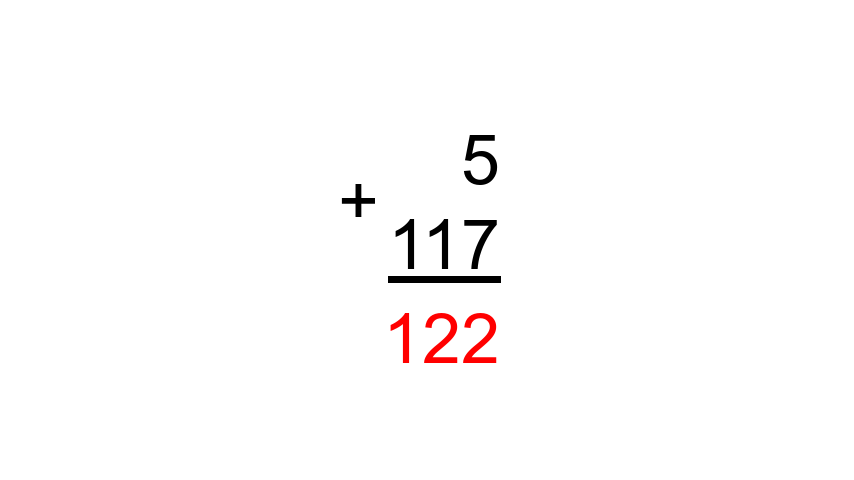
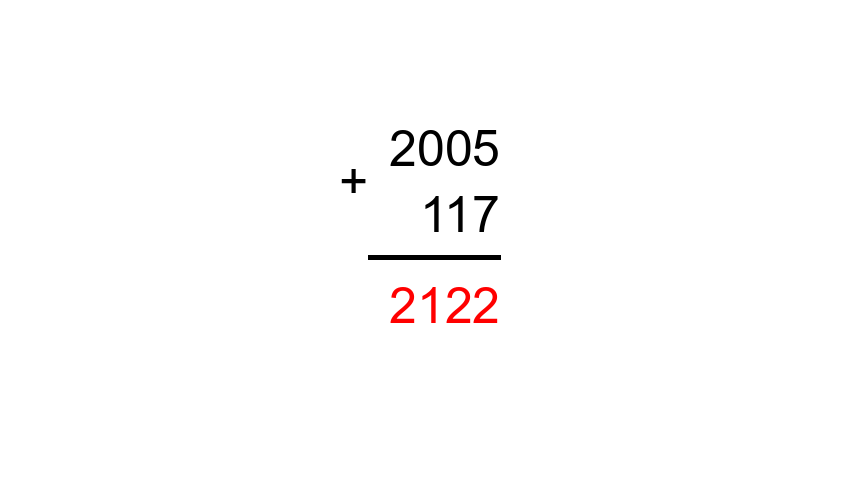
Old Exo compatibility

Changed region(s): [[0.4262, 0.25, 0.6089, 0.7812], [0.3958, 0.3438, 0.4567, 0.4688]]

diff --git a/load_exo.py b/load_exo.py
@@ -5,15 +5,67 @@ from datetime import date
 import os
 import re
 import sys
+import copy
 
 
 class ExoSchedule:
     def __init__(self):
-        self.exo_dir = r"C:\Users\NJAKA\Desktop\exo_itk"
+        # self.exo_dir = r"C:\Users\NJAKA\Desktop\exo_itk"
+        self.exo_dir = r"D:\Njaka_Project\Njaka_Dev_Itk\bin\Mianatra2\images"
         self.exo_schedule = "exo_schedule.json"
         self.all_exo = {}
         self.load_all_exo()
         self.update_all_exo()
+
+    @staticmethod
+    def reformat_answer(text):
+        result = ""
+        n = len(text)
+        for i in range(n):
+            t = text[i]
+            tmp = ""
+            if i != n - 1:
+                tmp = text[i + 1]
+            if tmp != "#" and t != "#":
+                result += f"{t}".lower()
+            elif t != "#":
+                result += f"{t}".upper()
+        return result
+
+    def organize_files(self, folder_path):
+        # print("---->>organize_files")
+        files = os.listdir(folder_path)
+        result = []
+        template = {"image1": "", "image2": "", "mp3": [], "answer": re.compile(""), "text": ""}
+
+        i = 1
+        get_next = True
+        while get_next:
+            get_next = False
+            for file in files:
+                match_a = re.search(rf"(A{i})(-.*)*\.(png|jpg)$", file)
+                if match_a is not None:
+                    get_next = True
+                    result.append(copy.deepcopy(template))
+                    result[-1]["image1"] = os.path.join(folder_path, file)
+                    if match_a.group(2) is not None:
+                        result[-1]["text"] = match_a.group(2)
+                    break
+            if get_next:
+                for file in files:
+                    match_b = re.search(rf"(B{i})-(.*)\.(png|jpg)$", file)
+                    if match_b is not None:
+                        result[-1]["image2"] = os.path.join(folder_path, file)
+                        tmp = rf"{self.reformat_answer(match_b.group(2))}"
+                        result[-1]["answer"] = re.compile(re.escape(tmp))
+                        break
+                for file in files:
+                    match_c = re.search(rf"(A{i})(-.*)*\.mp3$", file)
+                    if match_c is not None:
+                        result[-1]["mp3"].append(os.path.join(folder_path, file))
+                        break
+            i += 1
+        return result
 
     @staticmethod
     def get_today_weekday():
@@ -31,7 +83,8 @@ class ExoSchedule:
             for schedule in data['Itokiana']:
                 # print("-->",schedule["exo_number"])
                 if today_weekday in schedule['exo_weekdays']:
-                    random_values = random.sample(schedule['exo_group'], schedule['exo_number'])
+                    n = min(len(schedule['exo_group']),schedule['exo_number'])
+                    random_values = random.sample(schedule['exo_group'], n)
                     for exo in random_values:
                         self.all_exo[exo] = {}
 
@@ -72,22 +125,21 @@ class ExoSchedule:
                                 exo_tmp = {
                                     "image1": image1,
                                     "image2": image2,
-                                    # "image1": "images/A1.png",
-                                    # "image2": "images/A4.png",
-                                    "mp3": [r"D:\Njaka_Project\Njaka_Dev_Itk\bin\Mianatra2\images\vidin_ny_voankazo_b\A1.mp3"],
+                                    "mp3": [],
                                     "answer": answer,
                                     "text": "andrana"
                                 }
                                 self.all_exo[exo]["exo"].append(exo_tmp)
                         else:
-                            for _ in range(int(data["max"])):
-                                exo_tmp = {
-                                    "image1": "images/A1.png",
-                                    "image2": "images/A4.png",
-                                    "mp3": [r"D:\Njaka_Project\Njaka_Dev_Itk\bin\Mianatra2\images\vidin_ny_voankazo_b\A1.mp3"],
-                                    "answer": re.compile("6"),
-                                    "text": "andrana"
-                                }
+                            for exo_tmp in self.organize_files(exo_path):
+                                # for _ in range(int(data["max"])):
+                                #     exo_tmp = {
+                                #         "image1": "images/addition_result.png",
+                                #         "image2": "images/A4.png",
+                                #         "mp3": [r"D:\Njaka_Project\Njaka_Dev_Itk\bin\Mianatra2\images\vidin_ny_voankazo_b\A1.mp3"],
+                                #         "answer": re.compile("6"),
+                                #         "text": "andrana"
+                                #     }
                                 self.all_exo[exo]["exo"].append(exo_tmp)
                     except KeyError:
                         self.all_exo[exo] = {}

diff --git a/test2.py b/test2.py
@@ -4,14 +4,26 @@ from collections import defaultdict
 import copy
 
 
+def reformat_answer(text):
+    result = ""
+    n = len(text)
+    for i in range(n):
+        t = text[i]
+        tmp = ""
+        if i != n - 1:
+            tmp = text[i + 1]
+        if tmp != "#" and t != "#":
+            result += f"{t}".lower()
+        elif t != "#":
+            result += f"{t}".upper()
+    return result
+
+
 def organize_files(folder_path):
     print("---->>organize_files")
     files = os.listdir(folder_path)
     result = []
     template = {"image1": None, "image2": None, "mp3": [], "answer": None, "text": ""}
-
-    # for file in files:
-    #     print(f"-->{file}")
 
     i = 1
     get_next = True
@@ -22,7 +34,7 @@ def organize_files(folder_path):
             if match_a is not None:
                 get_next = True
                 result.append(copy.deepcopy(template))
-                result[-1]["image1"] = file
+                result[-1]["image1"] = os.path.join(folder_path, file)
                 if match_a.group(2) is not None:
                     result[-1]["text"] = match_a.group(2)
                 break
@@ -30,18 +42,15 @@ def organize_files(folder_path):
             for file in files:
                 match_b = re.search(rf"(B{i})-(.*)\.(png|jpg)$", file)
                 if match_b is not None:
-                    result[-1]["image2"] = file
-                    result[-1]["answer"] = match_b.group(2)
+                    result[-1]["image2"] = os.path.join(folder_path, file)
+                    result[-1]["answer"] = reformat_answer(match_b.group(2))
                     break
             for file in files:
                 match_c = re.search(rf"(A{i})(-.*)*\.mp3$", file)
                 if match_c is not None:
-                    result[-1]["mp3"].append(file)
+                    result[-1]["mp3"].append(os.path.join(folder_path, file))
                     break
         i += 1
-        # if i == 3:
-        #     break
-
     return result
 
 
@@ -49,10 +58,9 @@ def organize_files(folder_path):
 folder_path = r"D:\Njaka_Project\Njaka_Dev_Itk\bin\Mianatra2\images\dict_mg_v4"
 organized_data = organize_files(folder_path)
 
-print("+"*100)
+print("+" * 100)
 # print(organized_data)
 #
 for data in organized_data:
     print(data)
-print("+"*100)
-
+print("+" * 100)

diff --git a/test.py b/test.py
@@ -1,5 +1,6 @@
 from PIL import Image, ImageDraw, ImageFont
 
+
 def addition2number_vertical(a, b, output_path="addition_result.png"):
     # Create a blank white image
     width, height = 854, 480
@@ -8,7 +9,7 @@ def addition2number_vertical(a, b, output_path="addition_result.png"):
 
     # Load font with size 70
     try:
-        font = ImageFont.truetype("arial.ttf", 70)  # Use a default font
+        font = ImageFont.truetype("arial.ttf", 50)  # Use a default font
     except IOError:
         font = ImageFont.load_default()
 
@@ -33,7 +34,7 @@ def addition2number_vertical(a, b, output_path="addition_result.png"):
     x_b = x_right - text_width_b
     y_b = y_a + text_height_a + 20
 
-    line_y = y_b + text_height_b + 10  # Line below b
+    line_y = y_b + text_height_b + 25  # Line below b
 
     x_sum = x_right - text_width_sum
     y_sum = line_y + 20
@@ -41,13 +42,14 @@ def addition2number_vertical(a, b, output_path="addition_result.png"):
     # Draw the text and line
     draw.text((x_a, y_a), a_str, fill="black", font=font)  # Draw a
     draw.text((x_b, y_b), b_str, fill="black", font=font)  # Draw b
-    draw.text((x_right - max(text_width_a, text_width_b) - 50, (y_a + y_b)/2), "+", fill="black", font=font)  # Draw b
-    draw.line([(x_right - max(text_width_a, text_width_b), line_y), (x_right, line_y)], fill="black", width=7)  # Draw line
+    draw.text((x_right - max(text_width_a, text_width_b) - 50, (y_a + y_b) / 2), "+", fill="black", font=font)  # Draw b
+    draw.line([(x_right - max(text_width_a, text_width_b) - 21, line_y), (x_right, line_y)], fill="black", width=5)  # Draw line
     draw.text((x_sum, y_sum), sum_str, fill="red", font=font)  # Draw sum in red
 
     # Save the image
     image.save(output_path)
     print(f"Image saved as {output_path}")
 
+
 # Example usage
-addition2number_vertical(5, 117)
+addition2number_vertical(2005, 117)

diff --git a/Mianatra2.py b/Mianatra2.py
@@ -250,7 +250,12 @@ class MyFrame(wx.Frame):
         list1 = self.exo_list
         list2 = self.exo_done
         ret = ""
-        self.progress_bar.SetValue(int(len(self.exo_done) / len(self.exo_list) * 100))
+
+        try:
+            self.progress_bar.SetValue(int(len(self.exo_done) / len(self.exo_list) * 100))
+        except ZeroDivisionError:
+            pass
+
         # print(f"     --VS-->>{self.exo_done} VS {self.exo_list}")
 
         # TODO: randomize the exo
@@ -276,6 +281,7 @@ class MyFrame(wx.Frame):
             self.display_exo_complete()
             ret = None
         self.current_exo_name = ret
+        self.SetStatusText(f"Level: {len(self.exo_done)}/{len(self.exo_list)}", 3)
 
     def verify_correctness_all_exo(self):
         print("---->>verify_correctness_all_exo")
@@ -457,8 +463,8 @@ class MyFrame(wx.Frame):
         elif self.current_exo_name is None and self.ok_button.GetLabel() != "BRAVO !":
             self.display_exo_complete()
         elif self.ok_button.GetLabel() == "OK":
-            self.verify_answer()
-            self.get_exo_index()
+            if self.verify_answer():
+                self.get_exo_index()
             if self.stage_current_index is not None:
                 self.display_exo()
             else:

diff --git a/rename_cfg_file.py b/rename_cfg_file.py
@@ -1,0 +1,34 @@
+import os
+import shutil
+
+
+def rename_file(input_folder, output_folder):
+    """
+    Renames all files with 'cfg' extension to 'png' in the input folder.
+
+    Args:
+      input_folder: Path to the input folder containing the files.
+      output_folder: Path to the output folder where the renamed files will be saved.
+
+    Raises:
+      FileNotFoundError: If the input folder does not exist.
+    """
+
+    if not os.path.exists(input_folder):
+        raise FileNotFoundError(f"Input folder '{input_folder}' not found.")
+
+    if not os.path.exists(output_folder):
+        os.makedirs(output_folder)
+
+    for filename in os.listdir(input_folder):
+        if filename.endswith(".cfg"):
+            src_path = os.path.join(input_folder, filename)
+            new_filename = os.path.splitext(filename)[0] + ".png"
+            dst_path = os.path.join(output_folder, new_filename)
+            shutil.copy2(src_path, dst_path)
+
+
+# Example usage:
+input_dir = "/path/to/your/input/folder"
+output_dir = r"D:\itokiana_png"
+rename_file(input_dir, output_dir)

diff --git a/test3.py b/test3.py
@@ -1,0 +1,32 @@
+import os
+import shutil
+
+def rename_file(input_folder, output_folder):
+  """
+  Renames all files with 'cfg' extension to 'png' in the input folder.
+
+  Args:
+    input_folder: Path to the input folder containing the files.
+    output_folder: Path to the output folder where the renamed files will be saved.
+
+  Raises:
+    FileNotFoundError: If the input folder does not exist.
+  """
+
+  if not os.path.exists(input_folder):
+    raise FileNotFoundError(f"Input folder '{input_folder}' not found.")
+
+  if not os.path.exists(output_folder):
+    os.makedirs(output_folder)
+
+  for filename in os.listdir(input_folder):
+    if filename.endswith(".cfg"):
+      src_path = os.path.join(input_folder, filename)
+      new_filename = os.path.splitext(filename)[0] + ".png"
+      dst_path = os.path.join(output_folder, new_filename)
+      shutil.copy2(src_path, dst_path)
+
+# Example usage:
+input_dir = "/path/to/your/input/folder"
+output_dir = r"D:\itokiana_png"
+rename_file(input_dir, output_dir)
